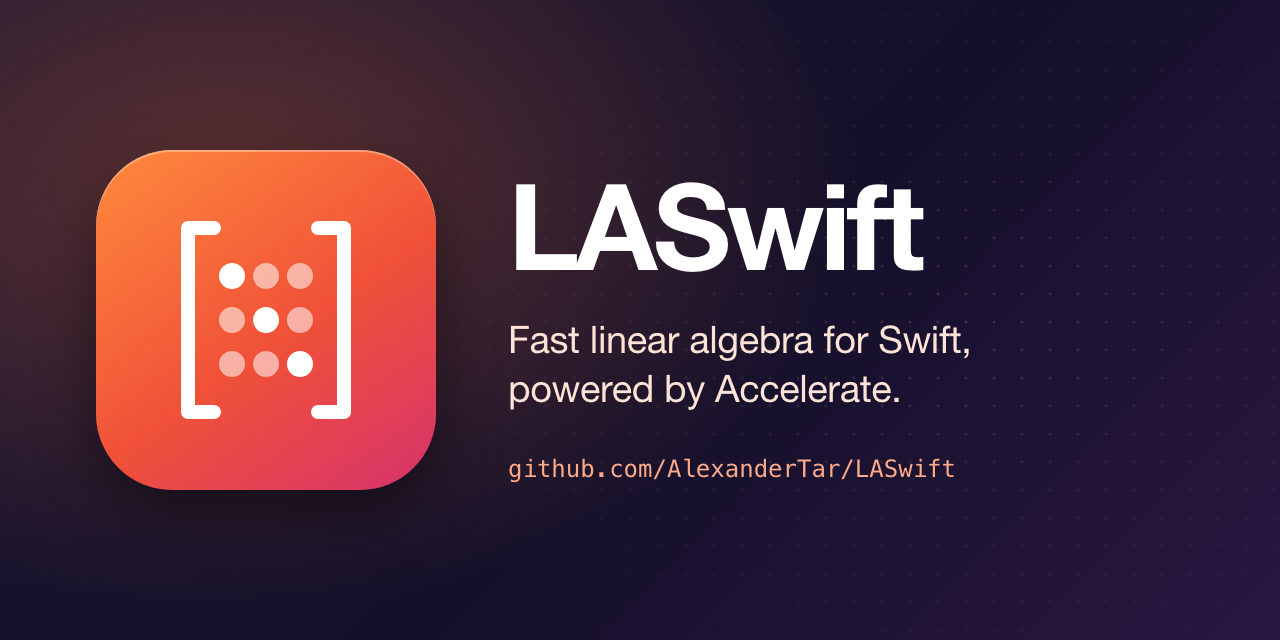
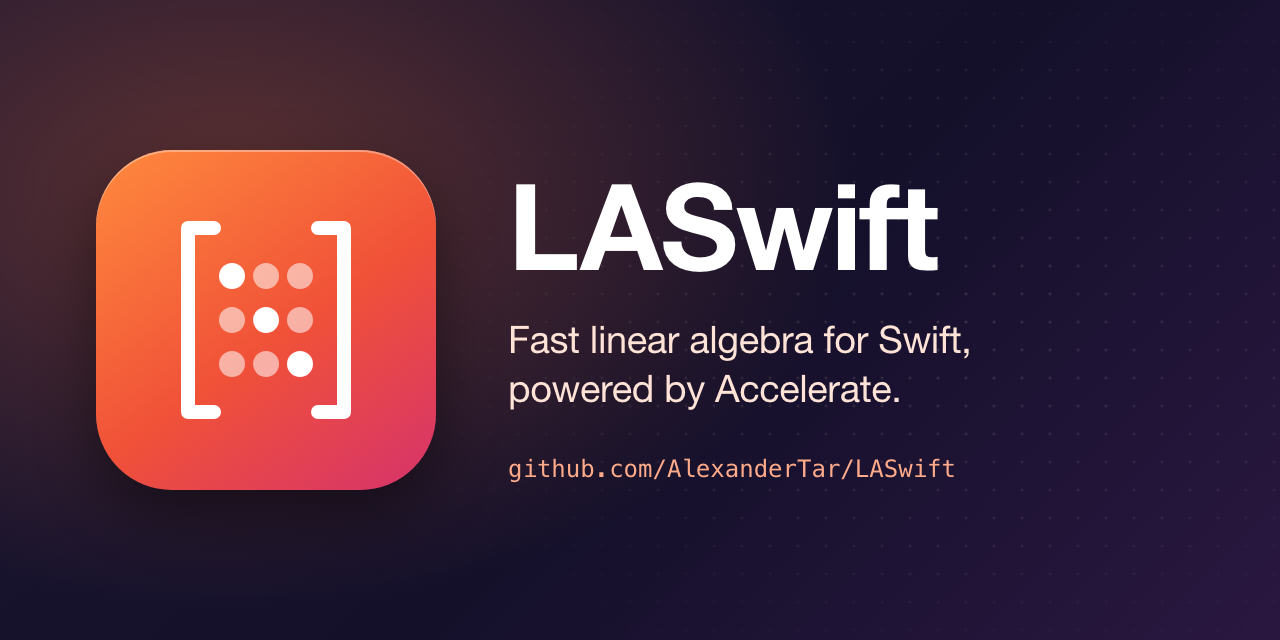
Address review: thr migration note, PR template link, title kerning, README example

Changed region(s): [[0.4375, 0.2812, 0.75, 0.4375]]

diff --git a/assets/social-preview.html b/assets/social-preview.html
@@ -27,7 +27,7 @@
   }
   .tile svg { position: absolute; inset: 0; width: 100%; height: 100%; }
   .text { position: relative; }
-  h1 { font-size: 120px; line-height: 1.1; font-weight: 800; letter-spacing: -0.035em; }
+  h1 { font-size: 120px; line-height: 1.1; font-weight: 800; letter-spacing: -0.02em; }
   p { margin-top: 24px; max-width: 700px; font-size: 38px; line-height: 1.28; letter-spacing: -0.01em; color: #ffe3d6; text-wrap: balance; }
   .url { display: block; margin-top: 44px; font: 24px/1 "SF Mono", Menlo, monospace; color: #ffab8a; }
   /* ?icon renders only the tile at 512x512 */
@@ -49,7 +49,7 @@
   </svg>
 </div>
 <div class="text">
-  <h1>LASwift</h1>
+  <h1><span style="margin-right: 0.03em">L</span>ASwift</h1>
   <p>Fast linear algebra for Swift, powered by Accelerate.</p>
   <span class="url">github.com/AlexanderTar/LASwift</span>
 </div>

diff --git a/CHANGELOG.md b/CHANGELOG.md
@@ -70,9 +70,11 @@ Apple platforms and Swift Package Manager only.
    and `Vi`. For a matrix with real eigenvalues, `Vi` and `Di` are zero. Use `eigvals` when you
    only need the eigenvalues.
 7. **`convolve` is a true convolution.** The kernel is flipped, as in `conv2(A, K, 'same')`.
-   0.3 cross-correlated and zeroed the border elements; now the border is computed too. Flip your kernel if you relied on correlation. The kernel must have odd dimensions and be
+   0.3 cross-correlated and zeroed the border elements; now the border is computed too. Flip
+   your kernel if you relied on correlation. The kernel must have odd dimensions and be
    smaller than the matrix.
-8. **`thr` zeroes below the threshold.** It used to leave those values alone.
+8. **`thr` zeroes below the threshold.** It used to set them to `t` (only `t = 0` gave
+   the same result); `max(x, t)` reproduces the old behaviour.
 9. **`std` is the sample deviation.** It divides by N − 1 by default. Pass
    `normalization: .population` for the old result.
 10. **`normalize(_:.Column)` keeps the matrix shape.**

diff --git a/CONTRIBUTING.md b/CONTRIBUTING.md
@@ -81,4 +81,4 @@ xcodebuild docbuild -scheme LASwift -destination "generic/platform=macOS"
 3. Run the checks above, then open the pull request and fill in the template.
 4. Sign your commits with GPG.
 
-Dependabot opens one weekly pull request for GitHub Actions updates. Merge it once CI passes.
+Dependabot opens weekly pull requests for GitHub Actions updates (and Swift package updates, if any appear). Merge it once CI passes.

diff --git a/.github/PULL_REQUEST_TEMPLATE.md b/.github/PULL_REQUEST_TEMPLATE.md
@@ -5,6 +5,6 @@
 ## Checklist
 
 - [ ] The change has a test that failed before it
-- [ ] The CI commands in [CONTRIBUTING.md](../CONTRIBUTING.md) pass locally
+- [ ] The CI commands in [CONTRIBUTING.md](https://github.com/AlexanderTar/LASwift/blob/master/CONTRIBUTING.md) pass locally
 - [ ] Docs and `CHANGELOG.md` are updated where the change is user-visible
 - [ ] Commits are GPG-signed

diff --git a/README.md b/README.md
@@ -55,7 +55,7 @@ let quadratic = A ** 2 + 3.0 .* eye(2, 2)
 let squares = [1.0, 2.0, 3.0] .** 2 // [1, 4, 9]
 
 let (V, D, _, _) = eig(A)           // right eigenvectors in the columns of V
-isApproximatelyEqual(A * V, V * D)  // true
+assert(isApproximatelyEqual(A * V, V * D))
 ```
 
 `**` and `.**` bind tighter than `*`, like exponentiation in maths. The old `^` and
